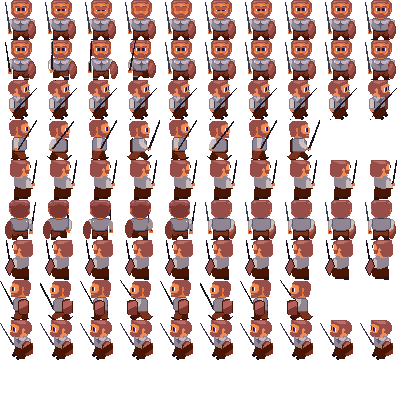
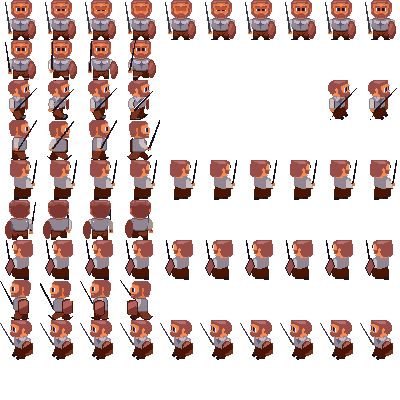
Added another direction for playe walking

diff --git a/js/player/warrior.js b/js/player/warrior.js
@@ -396,7 +396,7 @@ function warriorClass() {
 				this.animateWarrior()
 			}
 		} else { //player is moving
-			this.frames = 4;
+			this.frames = 3;
 			this.animateWarrior();
 		}
 		gameCoordToIsoCoord(this.x,this.y);
